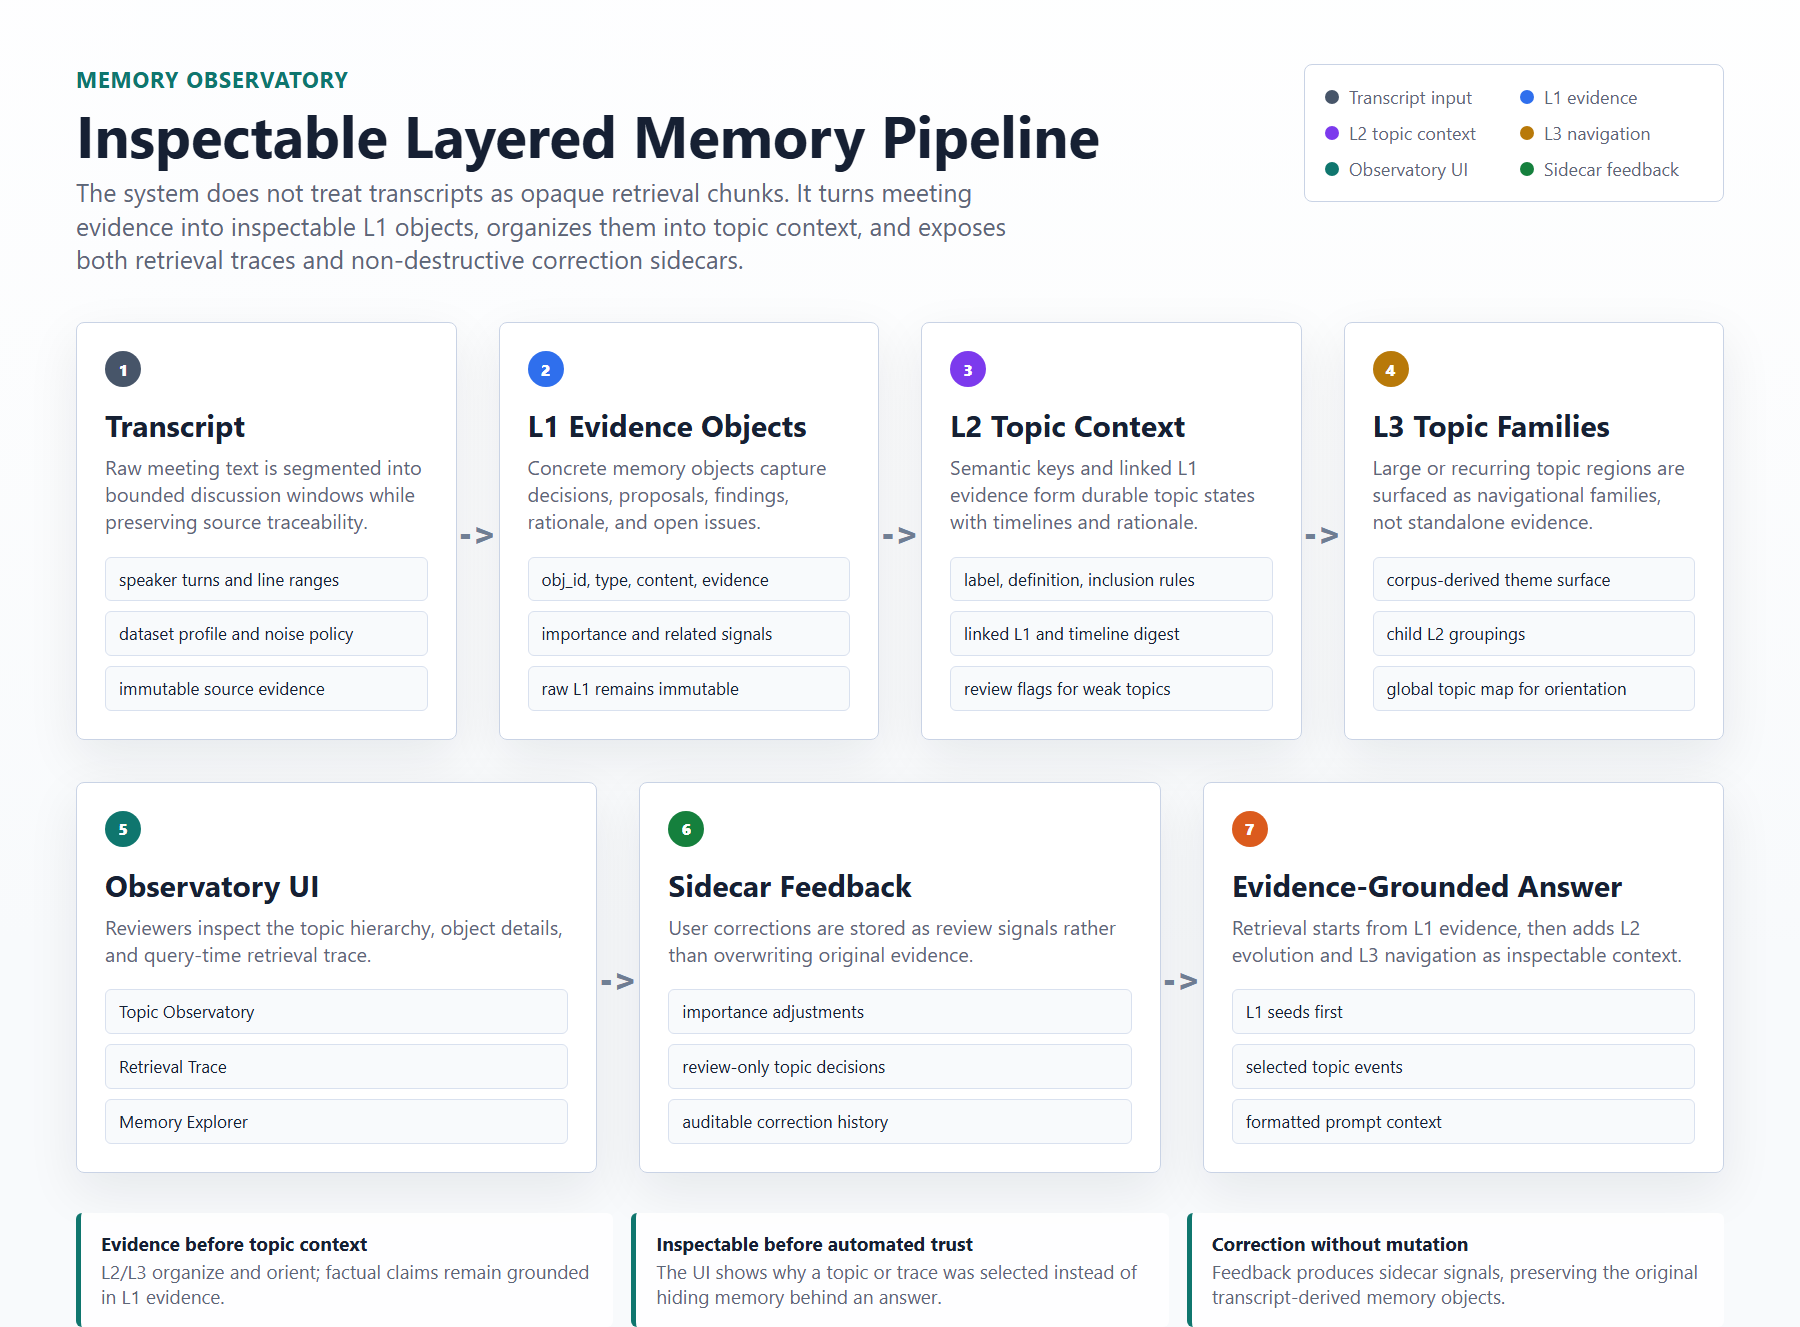
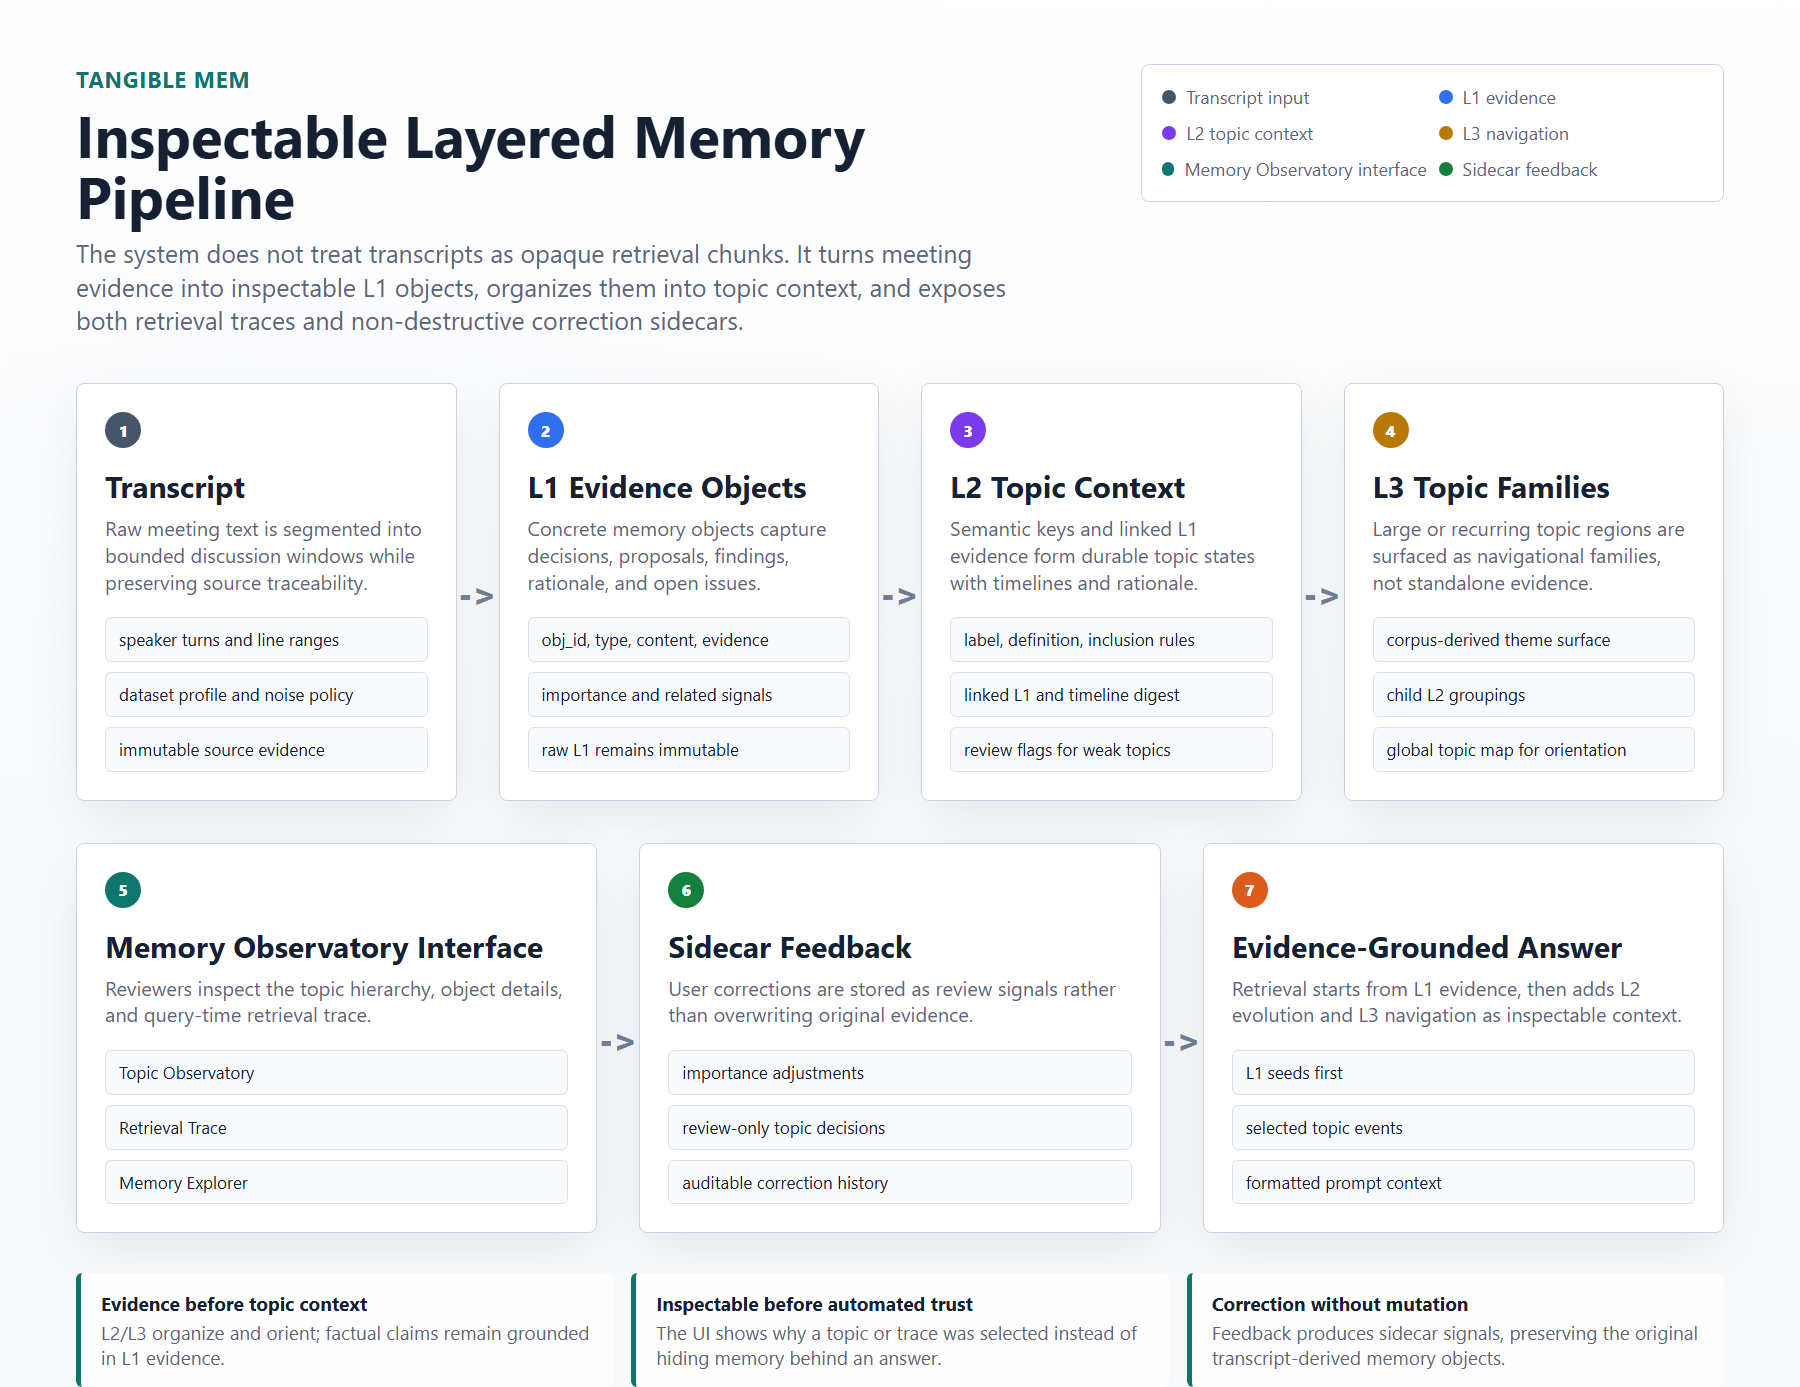
Align Tangible Mem figure branding

diff --git a/doc/taichi/figures/memory_observatory_system_overview.html b/doc/taichi/figures/memory_observatory_system_overview.html
@@ -210,7 +210,7 @@
     <main class="figure">
       <header class="header">
         <div>
-          <div class="eyebrow">Memory Observatory</div>
+          <div class="eyebrow">Tangible Mem</div>
           <h1>Inspectable Layered Memory Pipeline</h1>
           <p class="lede">
             The system does not treat transcripts as opaque retrieval chunks. It
@@ -224,7 +224,7 @@
           <div class="legend-item"><span class="dot" style="background:var(--l1)"></span>L1 evidence</div>
           <div class="legend-item"><span class="dot" style="background:var(--l2)"></span>L2 topic context</div>
           <div class="legend-item"><span class="dot" style="background:var(--l3)"></span>L3 navigation</div>
-          <div class="legend-item"><span class="dot" style="background:var(--ui)"></span>Observatory UI</div>
+          <div class="legend-item"><span class="dot" style="background:var(--ui)"></span>Memory Observatory interface</div>
           <div class="legend-item"><span class="dot" style="background:var(--sidecar)"></span>Sidecar feedback</div>
         </div>
       </header>
@@ -278,7 +278,7 @@
       <section class="lower" aria-label="Inspection and correction pipeline">
         <article class="stage observatory">
           <span class="num">5</span>
-          <h2>Observatory UI</h2>
+          <h2>Memory Observatory Interface</h2>
           <p>Reviewers inspect the topic hierarchy, object details, and query-time retrieval trace.</p>
           <div class="mini-list">
             <div class="mini">Topic Observatory</div>

diff --git a/memory_observatory/static/index.html b/memory_observatory/static/index.html
@@ -3,12 +3,15 @@
   <head>
     <meta charset="utf-8" />
     <meta name="viewport" content="width=device-width, initial-scale=1" />
-    <title>Memory Observatory</title>
+    <title>Tangible Mem - Memory Observatory</title>
     <link rel="stylesheet" href="/static/styles.css" />
   </head>
   <body>
     <aside class="sidebar">
-      <div class="brand">Memory Observatory</div>
+      <div class="brand">
+        <span class="brand-system">Tangible Mem</span>
+        <span class="brand-interface">Memory Observatory</span>
+      </div>
       <div id="datasetSwitch" class="dataset-switch" aria-label="Dataset switch">
         <button class="dataset-pill active" data-dataset="icsi">ICSI</button>
         <button class="dataset-pill" data-dataset="grace">Grace</button>

diff --git a/memory_observatory/static/styles.css b/memory_observatory/static/styles.css
@@ -27,9 +27,21 @@ body {
   color: white;
 }
 .brand {
-  font-size: 18px;
-  font-weight: 700;
+  display: flex;
+  flex-direction: column;
+  gap: 2px;
   margin-bottom: 18px;
+}
+.brand-system {
+  font-size: 18px;
+  font-weight: 800;
+  letter-spacing: 0;
+}
+.brand-interface {
+  font-size: 12px;
+  font-weight: 600;
+  color: #9fb0ca;
+  letter-spacing: 0;
 }
 .dataset-switch {
   display: grid;
